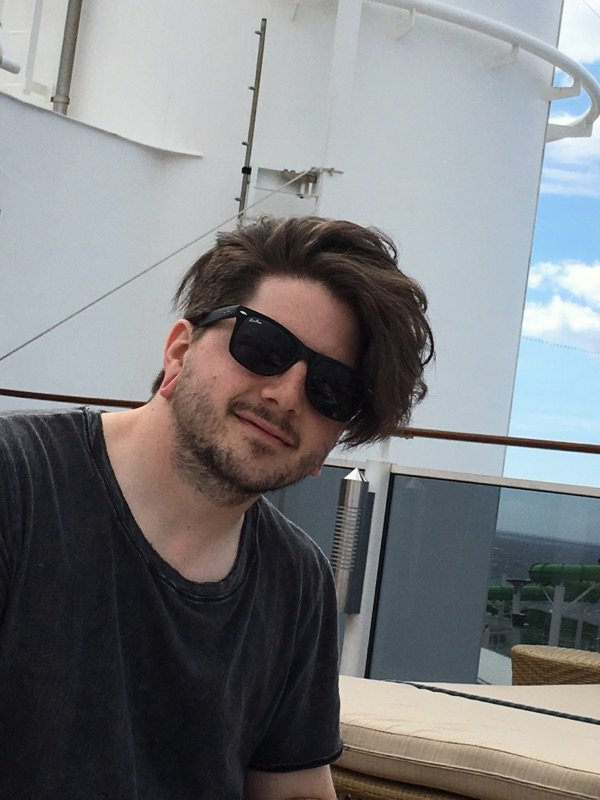
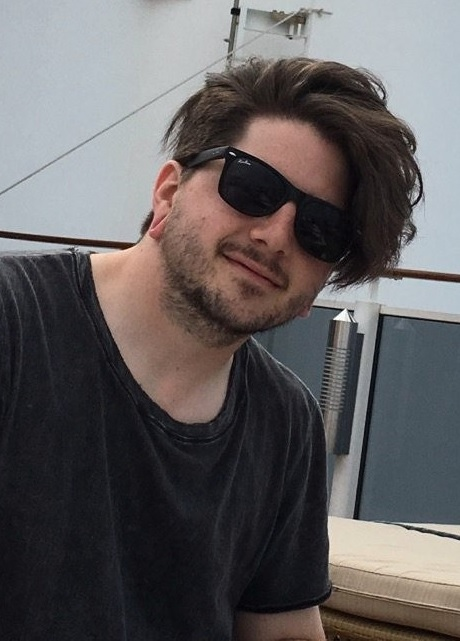
Add files via upload

diff --git a/index.html b/index.html
@@ -105,7 +105,7 @@
 					<h3>Email</h3>
 					<a href="mailto:dylanreinsma@gmail.com" span class="icon major fa-envelope"></span></a>
 					<br>
-					<img src="images/portraitresize.jpg" width="portrait"/>
+					<img src="images/portrait.jpg" class=portrait/>
 				</div>
 				<footer>
 					<ul class="icons">

diff --git a/assets/css/main.css b/assets/css/main.css
@@ -68,8 +68,6 @@ input, select, textarea {
 
 /* Basic */
 
-	.portrait {width:100%;}
-
 	html {
 		box-sizing: border-box;
 	}
@@ -3117,5 +3115,9 @@ input, select, textarea {
 					margin: 0;
 					padding: 0;
 				}
-
+	
+		.portrait {
+			width:100%;
+		}
+				
 	}
